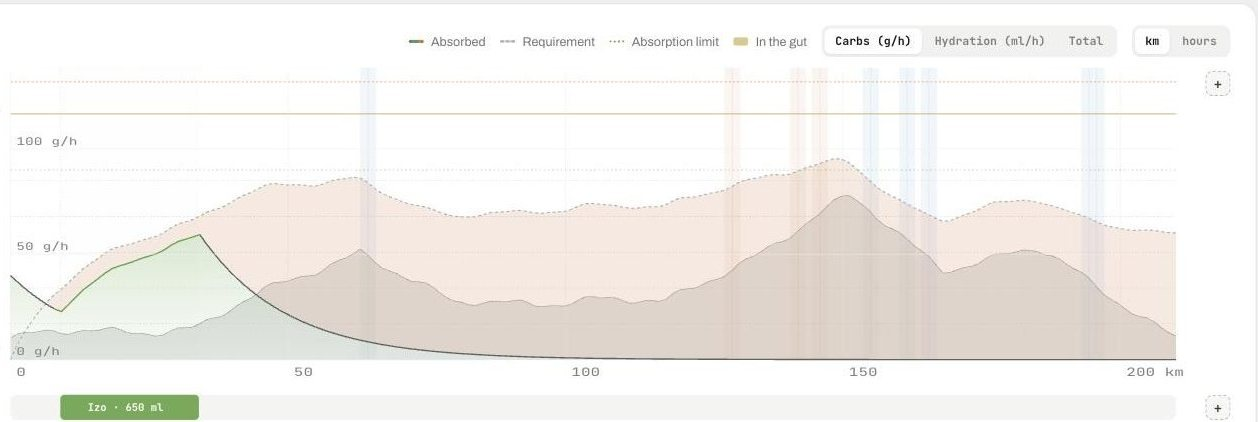
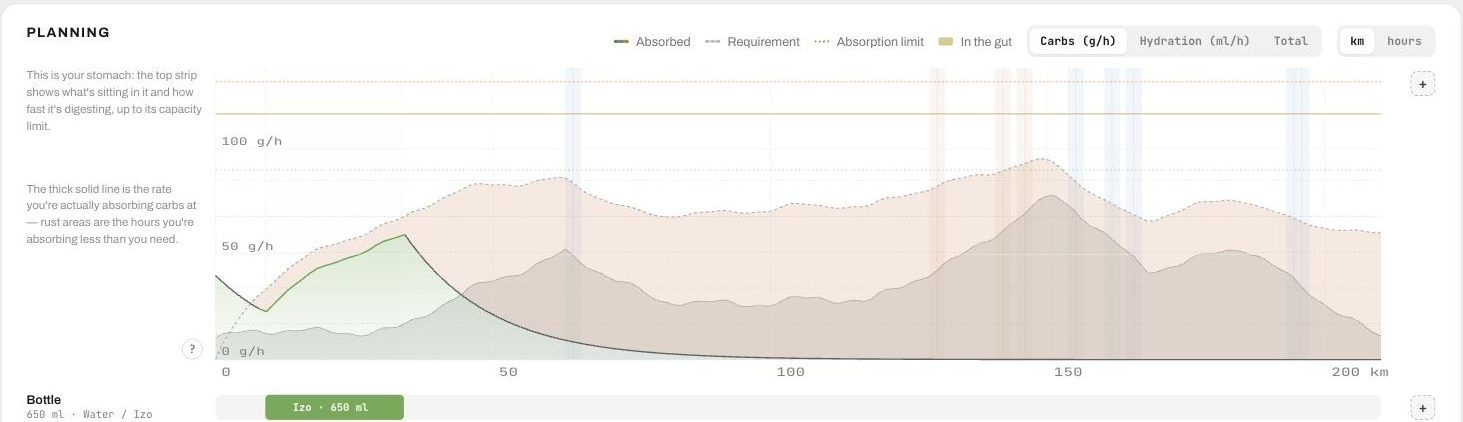
feat: park slide 3's chart description off the left edge, let it creep back
Restores the uncropped chart — cropping threw the explanatory column away for good,
and it is worth keeping on wider screens. Slide 3 drops the rider glue the other
slides use; the chart spans the full width instead, positioned so that at 412px the
description sits exactly off the left edge. Widening gives a quarter of each extra
pixel to the description and three quarters to uncovering more chart on the right,
which is the 3:1 the rider asked for.

diff --git a/src/landing/Landing.en.tsx b/src/landing/Landing.en.tsx
@@ -249,8 +249,12 @@ body { padding-top: var(--landing-header-h); }
   /* Gravel rider stands at 14.9% of the cropped frame, which is a different shape
      again (1.56 rather than 1.79). */
   .landing-slide[data-slide='3'] .landing-bg { object-position: 16.56% center; }
+  /* Slide 3 opts out of the glue. The chart runs the full width instead, with its
+     explanatory column parked just off the left edge at 412px and creeping back in as
+     the screen grows — a quarter of every extra pixel goes to the description, the
+     other three quarters uncover more chart past the right edge. */
   .landing-slide[data-slide='3'] .landing-shot img {
-    margin-left: calc(16.56vw - 2.59vh + 29.5px);
+    margin-left: calc(25vw - 21.36vh - 119.5px);
   }
 
   /* No question and no screenshot here, so the only job is keeping the rider and the

diff --git a/src/landing/Landing.pl.tsx b/src/landing/Landing.pl.tsx
@@ -247,8 +247,12 @@ body { padding-top: var(--landing-header-h); }
   /* Gravel rider stands at 14.9% of the cropped frame, which is a different shape
      again (1.56 rather than 1.79). */
   .landing-slide[data-slide='3'] .landing-bg { object-position: 16.56% center; }
+  /* Slide 3 opts out of the glue. The chart runs the full width instead, with its
+     explanatory column parked just off the left edge at 412px and creeping back in as
+     the screen grows — a quarter of every extra pixel goes to the description, the
+     other three quarters uncover more chart past the right edge. */
   .landing-slide[data-slide='3'] .landing-shot img {
-    margin-left: calc(16.56vw - 2.59vh + 29.5px);
+    margin-left: calc(25vw - 21.36vh - 119.5px);
   }
 
   /* No question and no screenshot here, so the only job is keeping the rider and the
